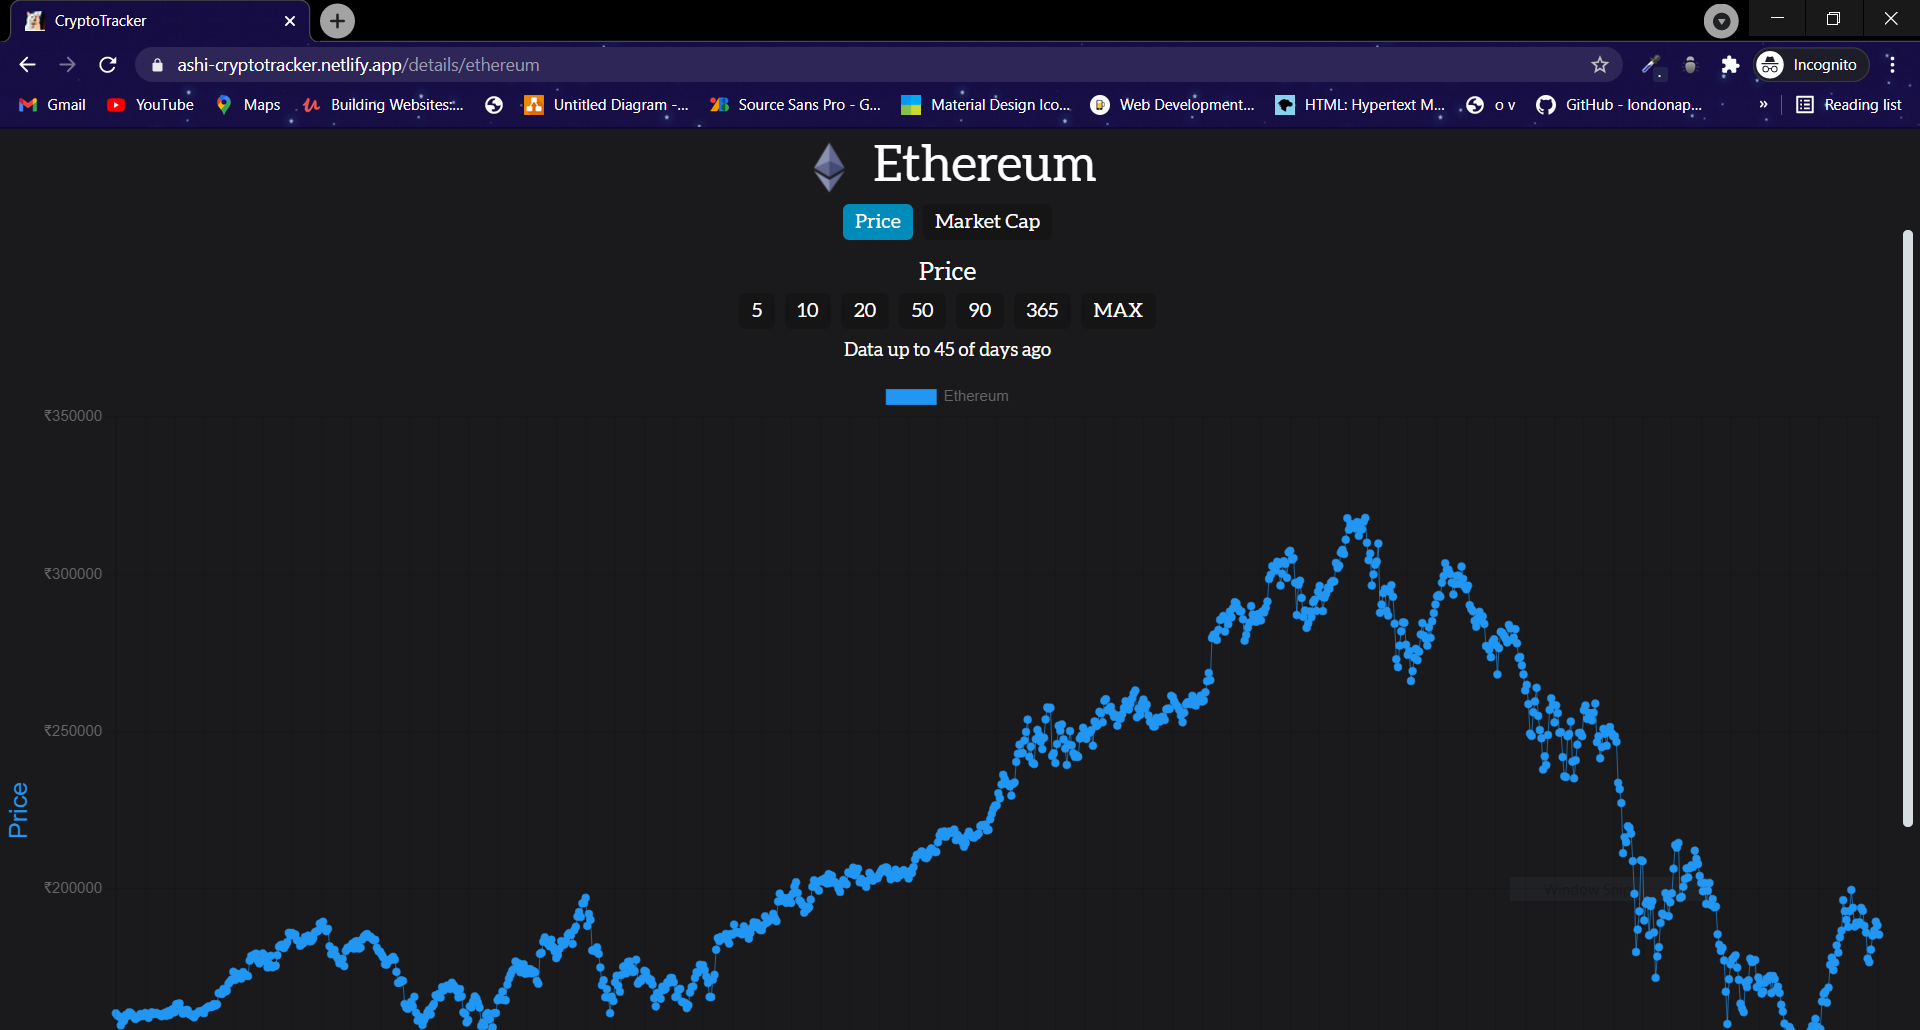
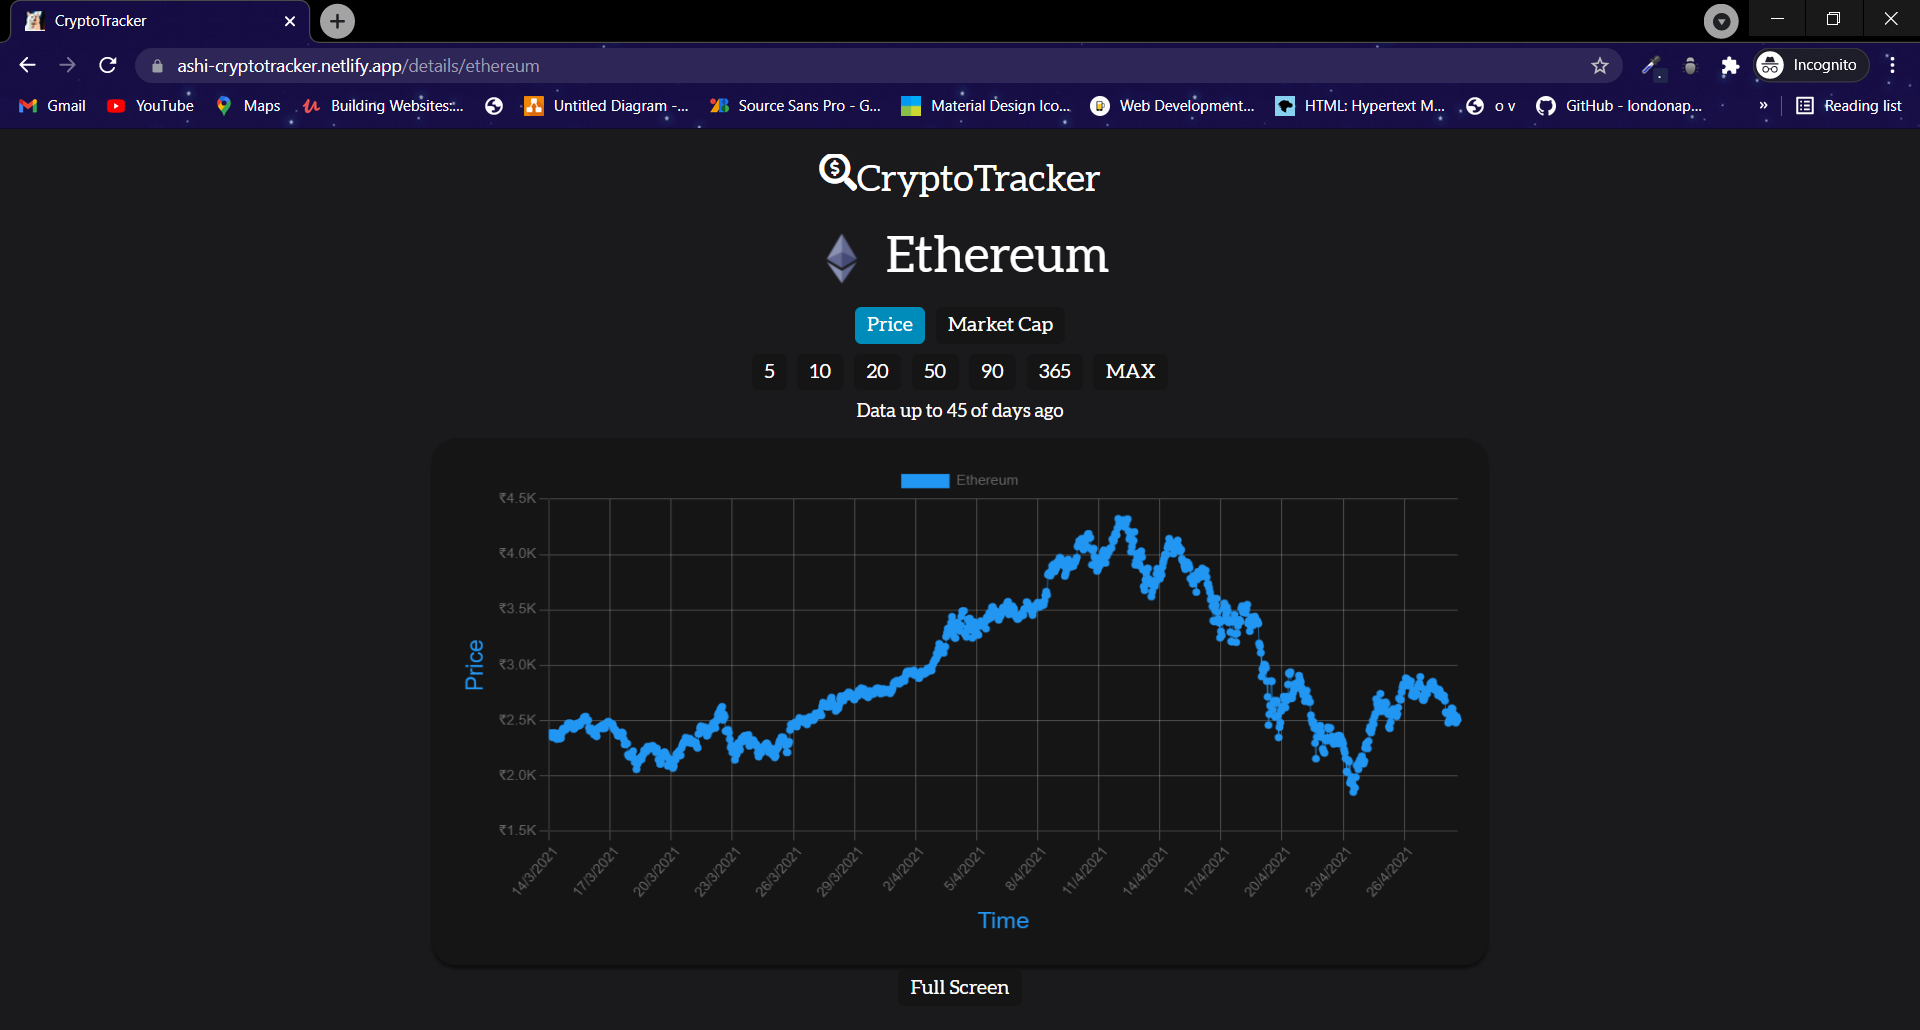
Readme file updated

diff --git a/README.md b/README.md
@@ -31,7 +31,10 @@ Details Page
 This page trends for a crypto currency is graphical form. App also provides option for user to select from price or volume graph. Also user can select how old data they want to see. The range is from 5 days to 10+ years. For drawing charts chart.js is used.
 <br/>
 <br/>
-![Favourite_Page](images/Details.PNG)
+![Details](images/Details.PNG)
+
+Full Page View of the Chart
+![FullPage](images/Full_Screen.png)
 
 ## Technologies
 
